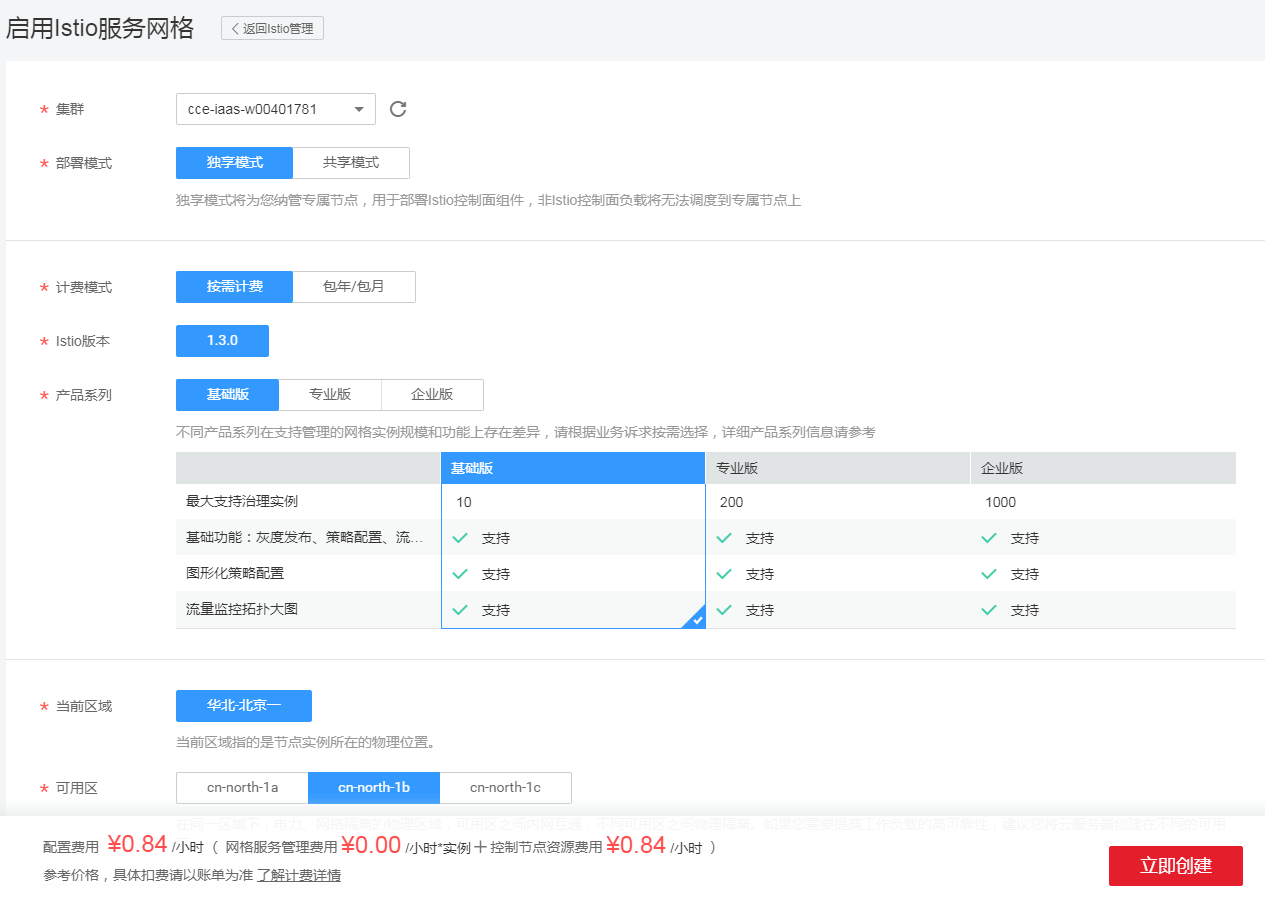
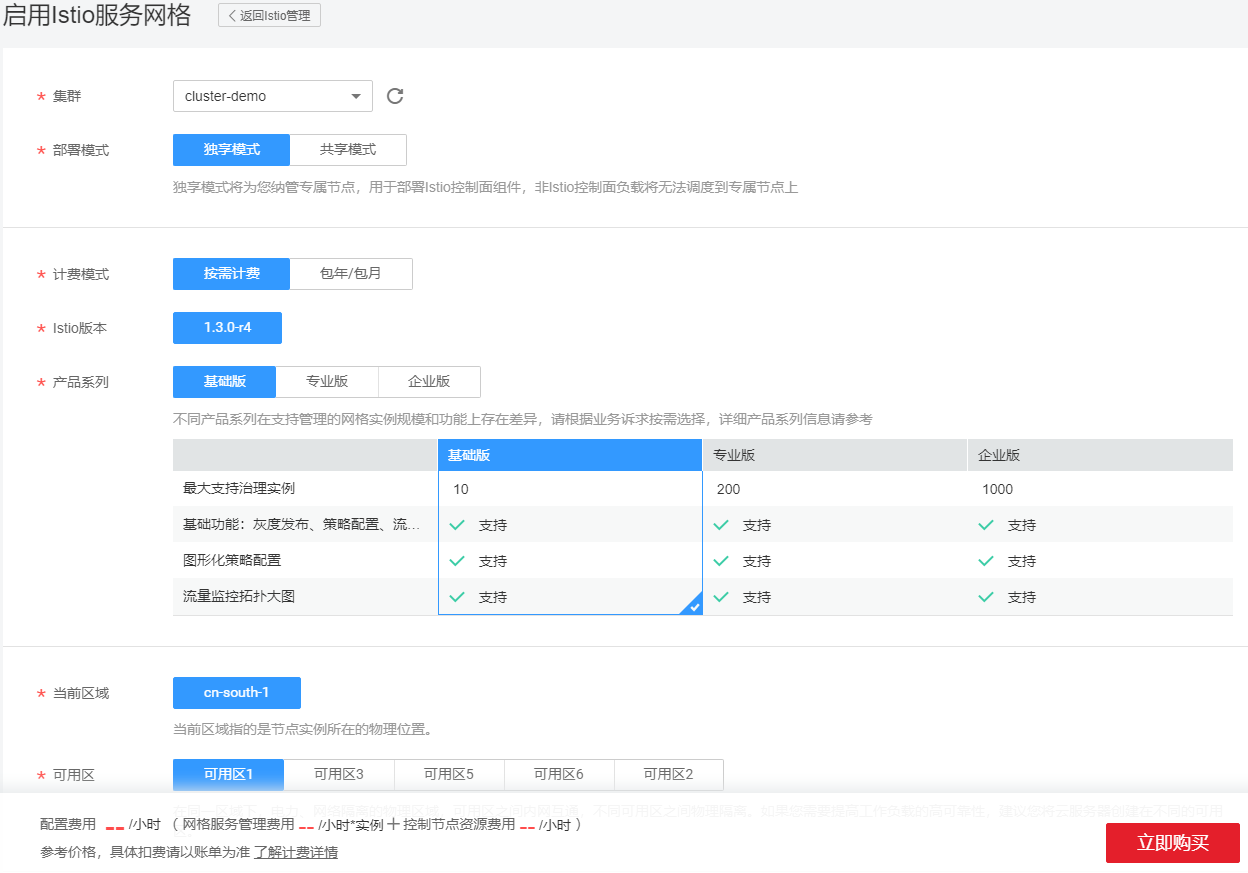
20200606

diff --git a/cn.zh-cn/启用Istio服务网格.md b/cn.zh-cn/启用Istio服务网格.md
@@ -6,15 +6,20 @@
 
 已创建CCE混合集群，若未创建，请参照[创建混合集群](https://support.huaweicloud.com/usermanual-cce/cce_01_0028.html)创建。
 
+## 使用须知<a name="section329739185"></a>
+
+-   Istio服务网格依赖集群coreDNS的域名解析能力，启用Istio服务网格前请确保集群拥有足够资源，且coreDNS组件运行正常。
+-   启用Istio时，需要开通node节点所在安全组的入方向7443端口规则，用于sidecar自动注入回调。若您使用CCE创建的默认安全组，此端口会自动开通。若您自建安全组规则，请手动开通7443端口，以确保Istio自动注入能力正常。
+
 ## 操作步骤<a name="section10250194182420"></a>
 
 1.  通过如下两种方式启用应用服务网格：
-    -   方式一：登录[应用服务网格](https://console.huaweicloud.com/istio)控制台，在“总览”页单击“购买Istio服务网格”进入启用Istio服务网格页面。
+    -   方式一：登录[应用服务网格控制台](https://console.huaweicloud.com/istio/?locale=zh-cn)，在“总览”页单击“购买Istio服务网格”进入启用Istio服务网格页面。
 
         **图 1**  启用Istio服务网格<a name="fig13191648194413"></a>  
         ![](figures/启用Istio服务网格.png "启用Istio服务网格")
 
-    -   方式二：登录[应用服务网格](https://console.huaweicloud.com/istio)控制台，在“总览 \> 资源总览”下，单击集群名称后的“启用Istio”进行启用。
+    -   方式二：登录[应用服务网格控制台](https://console.huaweicloud.com/istio/?locale=zh-cn)，在“总览 \> 资源总览”下，单击集群名称后的“启用Istio”进行启用。
 
         **图 2**  启用Istio<a name="fig1328535717147"></a>  
         ![](figures/启用Istio.png "启用Istio")
@@ -28,11 +33,11 @@
 
         不同的部署模式，待配置的参数也有所不同，请以界面实际展示的参数为准。
 
-        -   独享模式：将为您纳管专属节点，用于部署Istio控制面组件，非Istio控制面负载将无法调度到该专属节点上。
+        -   独享模式（推荐使用）：将为您纳管专属节点，用于部署Istio控制面组件，非Istio控制面负载将无法调度到该专属节点上。
 
-            独享模式的Istio控制面与数据面资源隔离，推荐使用。
+            独享模式的Istio控制面与数据面资源相互隔离。
 
-            独享模式需要您有充足的节点配额和磁盘配额，一个节点需要配备40G系统盘及100G数据盘，高可用模式需要两个节点配额（四个磁盘配额），单点模式需要一个节点配额（两个磁盘配额）。
+            独享模式需要您有充足的节点配额和磁盘配额，一个节点需要配备40G系统盘及100G数据盘。高可用模式，要求独享节点个数不少于2，非高可用模式，要求独享节点个数只能为1。
 
         -   共享模式：会将Istio控制面组件部署在您的集群节点上，请确保集群内有可用节点，否则无法启用共享模式Istio服务网格。
 
@@ -45,7 +50,7 @@
 
     -   **Istio版本**
 
-        指定Istio版本为1.3.0，该版本支持Dubbo协议服务治理。
+        指定Istio版本为1.3.0-r4，该版本支持Dubbo协议服务治理。
 
     -   <a name="li10988165115388"></a>**产品系列**
 
@@ -71,8 +76,8 @@
 
         Istio启用后，高可用模式与普通模式不可切换，请根据实际使用情况选择。
 
-        -   是，高可用模式将为您创建两个节点，用于Istio控制面多实例部署，多实例能大大的提高Istio控制面可靠性，推荐使用。
-        -   否，非高可用模式为单点模式，Istio控制面组件均为单实例，无法提供更高的可靠性保证。
+        -   是：高可用模式要求独享节点个数不少于2，用于Istio控制面多实例部署，多实例能大大的提高Istio控制面可靠性，推荐使用。
+        -   否：非高可用模式为单点模式，Istio控制面组件均为单实例，无法提供更高的可靠性保证。
 
     -   **节点规格**
 
@@ -100,37 +105,32 @@
 
     -   **节点配额**
 
-        此处为节点配额提示，如需申请更多配额，请单击[申请扩大配额](https://console.huaweicloud.com/istio/%7B%7BENLARGE_QUOTA_ADDDRESS%7D%7D)。
+        此处为节点配额提示，如需申请更多配额，请单击申请扩大配额。
 
     -   **购买时长**
 
         若选择创建“包年/包月”的集群，请设置购买时长。
 
-3.  设置完成后，单击“立即创建”。确认订单无误后，单击“提交”。
+3.  设置完成后，单击“立即购买”。确认订单无误后，单击“提交”。
 
     启用时间预计需要5分钟，您可以单击请求提交页面的“返回Istio管理“或“前往CCE集群管理“查看Istio运行状态。
 
     >![](public_sys-resources/icon-note.gif) **说明：**   
-    >选择“立即创建”后，会进行启用Istio的操作，期间会操作如下资源：  
-    >-   若为独享型，则创建1或2个ECS节点，作为Istio控制面运行节点。  
+    >选择“立即购买”后，会进行启用Istio的操作，期间会操作如下资源：  
+    >-   若为高可用独享型，则创建需要至少2个ECS节点，作为Istio控制面运行节点。  
     >-   创建一个Helm应用编排release对象，作为Istio控制面的资源 。  
     >-   开通ECS节点的安全组，允许7443端口的入流量，使其支持对Pod进行自动注入。  
     >-   为该集群的default的命名空间打上inject=true标签。  
 
 4.  Istio服务网格启用成功后，可在“Istio管理“或CCE的集群列表中查看Istio启用状态。
+    -   **方式一：**登录[应用服务网格控制台](https://console.huaweicloud.com/istio/?locale=zh-cn)，单击“Istio管理“，在右侧卡片列表中查看Istio状态，若为运行中则说明集群启用Istio成功。
 
-    **方式一：**
+        **图 3**  Istio服务网格启用成功<a name="fig93042151399"></a>  
+        ![](figures/Istio服务网格启用成功.png "Istio服务网格启用成功")
 
-    登录[应用服务网格](https://console.huaweicloud.com/istio)控制台，单击“Istio管理“，在右侧卡片列表中查看Istio状态，若为运行中则说明集群启用Istio成功。
+    -   **方式二：**登录[云容器引擎](https://console.huaweicloud.com/cce2.0/?locale=zh-cn)控制台，单击“资源管理 \> 集群管理”，在右侧集群卡片列表中查看Istio状态。
+        -   若集群名称右侧显示![](figures/icon-Istio-l.png)，则Istio启用成功。
+        -   若集群名称右侧显示![](figures/icon-Istio-h.png)，则Istio启用失败。
 
-    **图 3**  Istio服务网格启用成功<a name="fig93042151399"></a>  
-    ![](figures/Istio服务网格启用成功.png "Istio服务网格启用成功")
-
-    **方式二：**
-
-    登录[云容器引擎](https://console.huaweicloud.com/cce2.0)控制台，单击“资源管理 \> 集群管理”，在右侧集群卡片列表中查看Istio状态。
-
-    -   若集群名称右侧显示![](figures/icon-Istio-l.png)，则Istio启用成功。
-    -   若集群名称右侧显示![](figures/icon-Istio-h.png)，则Istio启用失败。
 
 

diff --git a/cn.zh-cn/灰度版本基本操作.md b/cn.zh-cn/灰度版本基本操作.md
@@ -10,7 +10,7 @@
 
 若您在添加灰度版本时，未配置灰度策略，可以基于以下步骤创建策略。
 
-1.  登录[应用服务网格控制台](https://console.huaweicloud.com/istio/)，在左侧导航栏中选择“灰度发布“。
+1.  登录[应用服务网格控制台](https://console.huaweicloud.com/istio/?locale=zh-cn)，在左侧导航栏中选择“灰度发布“。
 2.  单击已创建灰度任务的名称，进入查看灰度版本状态页面。
 3.  <a name="li374672184218"></a>单击“配置灰度策略”。在灰度策略配置中，单击策略类型下的“基于请求内容策略“或“基于流量比例策略“。
     -   **基于请求内容发布**
@@ -37,8 +37,6 @@
         对当前版本配置相应的流量权重，服务流量将会按照权重比率以对应的概率分发当前版本。例如10%的流量走版本A，90%的流量走版本B。
 
         -   流量配比：根据输入的流量配比来确定流量分发的比重。
-
-            输入流量配比：
 
             范围限制为\[0,默认版本权重w\]，例如，当您配置为10，则10%的服务流量会走向此版本，\(w-10\)%的流量会走向默认版本，即从默认版本分走一部分流量。
 
@@ -68,11 +66,11 @@
 >![](public_sys-resources/icon-notice.gif) **须知：**   
 >只有**发布中**的任务才支持灰度策略变更，版本发布完成后（即新版本完全接管旧版本流量，且旧版本已下线），将不支持重新配置灰度策略。  
 
-1.  登录[应用服务网格控制台](https://console.huaweicloud.com/istio/)，在左侧导航栏中选择“灰度发布“。
+1.  登录[应用服务网格控制台](https://console.huaweicloud.com/istio/?locale=zh-cn)，在左侧导航栏中选择“灰度发布“。
 2.  单击已创建灰度版本的名称。
 3.  在监测灰度运行状态页面，单击“查看/配置灰度策略”。
 4.  参照[配置灰度策略](#li374672184218)重新配置灰度策略。
-5.  配置完成后，单击“策略下发”。此操作完成后，原本配置的规则将全部失效，所有的流量，都会根据配置的新策略重新分配，请谨慎操作。
+5.  配置完成后，单击“策略下发”。
 
 ## 切为默认流量版本<a name="section124701017142211"></a>
 
@@ -80,9 +78,9 @@
 
 ## 下线灰度版本<a name="section4846173143614"></a>
 
-若下线了某个灰度版本，则该版本的流量会被新版本完全接管。
+若下线了原默认版本，则该版本的流量会被新创建的灰度版本完全接管。
 
-1.  登录[应用服务网格控制台](https://console.huaweicloud.com/istio/)，在左侧导航栏中选择“灰度发布“。
+1.  登录[应用服务网格控制台](https://console.huaweicloud.com/istio/?locale=zh-cn)，在左侧导航栏中选择“灰度发布“。
 2.  单击已创建灰度任务的名称。
 3.  单击待下线版本后的“版本下线”，下线该版本。
 

diff --git a/cn.zh-cn/流量治理.md b/cn.zh-cn/流量治理.md
@@ -4,7 +4,7 @@
 
 ## 配置流量策略<a name="section10774113201515"></a>
 
-1.  登录[应用服务网格控制台](https://console.huaweicloud.com/istio/)，在左侧导航栏中选择“流量治理“。
+1.  登录[应用服务网格控制台](https://console.huaweicloud.com/istio/?locale=zh-cn)，在左侧导航栏中选择“流量治理“。
 2.  选择组件所在的集群、命名空间和应用，如无所属应用选择未配置。
 3.  在拓扑图中，单击组件名称下的圆形图标。在负载均衡算法中，进行流量策略配置。
     -   **负载均衡算法**
@@ -46,7 +46,7 @@
 
         后端服务处理的最大请求数，默认为1024。
 
-5.  熔断配置。在流量策略中选择进行熔断策略配置。
+5.  熔断配置。
     -   **连续错误数**
 
         在一个检查周期内，连续出现500及以上错误的个数，例502、503状态码。
@@ -92,7 +92,7 @@
 
 轮询算法为默认负载均衡算法。即当组件有多个实例时，访问基本接近于平均分配给每一个实例。组件流量策略设置完成后，通过连续不中断的访问应用，产生访问数据。
 
-1.  登录[应用服务网格控制台](https://console.huaweicloud.com/istio/)，在左侧导航栏中选择“流量监控“。
+1.  登录[应用服务网格控制台](https://console.huaweicloud.com/istio/?locale=zh-cn)，在左侧导航栏中选择“流量监控“。
 2.  在上侧时间轴区域选择对应的时间范围，在所需要查看的组件区域右键单击“展开“，将其展开为版本。
 
     **图 1**  选择时间轴并展开组件<a name="fig15693194118270"></a>  
@@ -103,8 +103,8 @@
     >![](public_sys-resources/icon-note.gif) **说明：**   
     >Report模式下，不提供实例展开功能。  
 
-    **图 2**  展开组件为版本<a name="fig144141530102820"></a>  
-    ![](figures/展开组件为版本.png "展开组件为版本")
+    **图 2**  展开组件为实例<a name="fig144141530102820"></a>  
+    ![](figures/展开组件为实例.png "展开组件为实例")
 
 4.  在拓扑图区域，可以看到各个流量分发到各个实例的情况。
 
@@ -116,7 +116,7 @@
 
 流量策略设置完成后，支持更改流量策略算法。如将标准负载均衡的算法轮询转为随机（RANDOM）。
 
-1.  登录[应用服务网格控制台](https://console.huaweicloud.com/istio/)，在左侧导航栏中选择“流量治理“。
+1.  登录[应用服务网格控制台](https://console.huaweicloud.com/istio/?locale=zh-cn)，在左侧导航栏中选择“流量治理“。
 2.  在“流量治理“界面中选择并单击目标组件。
 
     **图 4**  流量治理选择<a name="fig201466853716"></a>  

diff --git a/cn.zh-cn/为服务添加灰度版本.md b/cn.zh-cn/为服务添加灰度版本.md
@@ -1,6 +1,6 @@
 # 为服务添加灰度版本<a name="istio_01_0009"></a>
 
-当部署新的灰度版本到已有服务时，需要添加灰度版本。一个服务仅支持发布一个灰度版本，并支持为版本添加灰度策略。
+一个服务仅支持发布一个灰度版本，并支持为版本添加灰度策略。
 
 ## 基本概念<a name="section695502711820"></a>
 
@@ -16,7 +16,7 @@
 
 ## 创建金丝雀发布<a name="section18314175933915"></a>
 
-1.  登录[应用服务网格控制台](https://console.huaweicloud.com/istio/)，在左侧导航栏中选择“灰度发布“。在金丝雀发布下，单击“创建”。
+1.  登录[应用服务网格控制台](https://console.huaweicloud.com/istio/?locale=zh-cn)，在左侧导航栏中选择“灰度发布“。在金丝雀发布下，单击“创建”。
 2.  配置灰度版本基本信息。
     -   **灰度发布服务**
 
@@ -98,7 +98,7 @@
 
 ## 创建蓝绿发布<a name="section18429185311251"></a>
 
-1.  登录[应用服务网格控制台](https://console.huaweicloud.com/istio/)，在左侧导航栏中选择“灰度发布“。在蓝绿发布下，单击“创建”。
+1.  登录[应用服务网格控制台](https://console.huaweicloud.com/istio/?locale=zh-cn)，在左侧导航栏中选择“灰度发布“。在蓝绿发布下，单击“创建”。
 2.  配置灰度版本基本信息。
     -   **蓝绿发布服务**
 

diff --git a/cn.zh-cn/什么是应用服务网格.md b/cn.zh-cn/什么是应用服务网格.md
@@ -1,6 +1,6 @@
 # 什么是应用服务网格<a name="istio_01_0001"></a>
 
-应用服务网格（Application Service Mesh，简称ASM）是华为云基于开源Istio推出的服务网格平台，它深度、无缝对接了华为云的企业级Kubernetes集群服务[云容器引擎](https://support.huaweicloud.com/cce/index.html)（CCE），在易用性、可靠性、可视化等方面进行了一系列增强，可为客户提供开箱即用的上手体验。
+应用服务网格（Application Service Mesh，简称ASM）是华为云基于开源Istio推出的服务网格平台，它深度、无缝对接了华为云的企业级Kubernetes集群服务云容器引擎（CCE），在易用性、可靠性、可视化等方面进行了一系列增强，可为客户提供开箱即用的上手体验。
 
 ASM提供非侵入式的微服务治理解决方案，支持完整的生命周期管理和流量治理，兼容Kubernetes和Istio生态，其功能包括负载均衡、熔断、限流等多种治理能力。ASM内置金丝雀、蓝绿、A/B Test等多种灰度发布流程，提供一站式自动化的发布管理。ASM基于无侵入的监控数据采集，提供实时流量拓扑、调用链等服务性能监控和运行诊断，构建全景的服务运行视图。
 

diff --git a/cn.zh-cn/流量监控.md b/cn.zh-cn/流量监控.md
@@ -9,7 +9,7 @@
 
 ## 查看流量监控情况<a name="section168749424569"></a>
 
-1.  登录[应用服务网格控制台](https://console.huaweicloud.com/istio/)，在左侧导航栏中选择“流量监控”。
+1.  登录[应用服务网格控制台](https://console.huaweicloud.com/istio/?locale=zh-cn)，在左侧导航栏中选择“流量监控”。
 2.  查看整个系统的监控情况。
     -   饼状图显示了系统处于运行中和未就绪的应用数量。
     -   异常响应和超长RT时延按照租户内异常请求个数和单次请求耗时从高到低的排序。

diff --git a/cn.zh-cn/灰度发布.md b/cn.zh-cn/灰度发布.md
@@ -1,0 +1,9 @@
+# 灰度发布<a name="istio_01_0007"></a>
+
+-   **[灰度发布概述](灰度发布概述.md)**  
+
+-   **[为服务添加灰度版本](为服务添加灰度版本.md)**  
+
+-   **[灰度版本基本操作](灰度版本基本操作.md)**  
+
+
